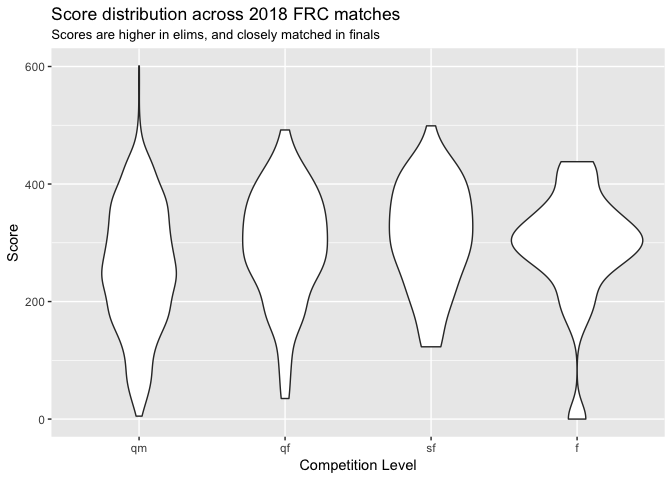
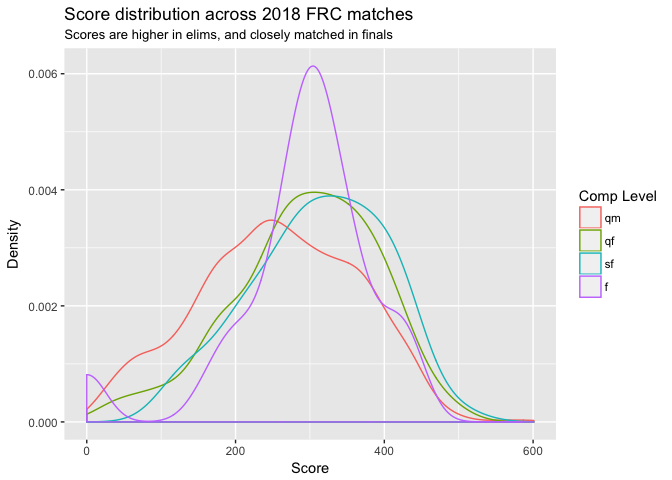
Remove violin plots.

diff --git a/2018_matches.md b/2018_matches.md
@@ -72,13 +72,14 @@ Here we look at the results from 1840 matches played so far this year.
 matches_flat %>%
   gather(alliances.red.score, alliances.blue.score, key = "alliance", value = "score") %>%
   filter(score >= 0) %>%
-  ggplot(aes(parse_factor(comp_level, levels = comp_levels, ordered = TRUE), score)) +
-  geom_violin() +
+  ggplot(aes(score, ..density.., color = parse_factor(comp_level, levels = comp_levels, ordered = TRUE))) +
+  geom_density() +
   labs(
     title = "Score distribution across 2018 FRC matches",
     subtitle = "Scores are higher in elims, and closely matched in finals",
-    x = "Competition Level",
-    y = "Score"
+    x = "Score",
+    y = "Density",
+    color = "Comp Level"
   )
 ```
 
@@ -91,17 +92,18 @@ matches_flat %>%
   mutate(
     win_margin = abs(alliances.red.score - alliances.blue.score)
   ) %>%
-  ggplot(aes(parse_factor(comp_level, levels = comp_levels, ordered = TRUE), win_margin)) +
-  geom_violin() +
+  ggplot(aes(win_margin, ..density.., color = parse_factor(comp_level, levels = comp_levels, ordered = TRUE))) +
+  geom_density() +
   labs(
     title = "Win margins across 2018 FRC matches",
     subtitle = "Matches are closer in finals, as expected",
-    x = "Competition Level",
-    y = "Win Margin"
+    x = "Win Margin",
+    y = "Density",
+    color = "Comp Level"
   )
 ```
 
-![](2018_matches_files/figure-markdown_github/unnamed-chunk-1-1.png)
+![](2018_matches_files/figure-markdown_github/win_margins-1.png)
 
 Ownership Deltas
 ----------------
